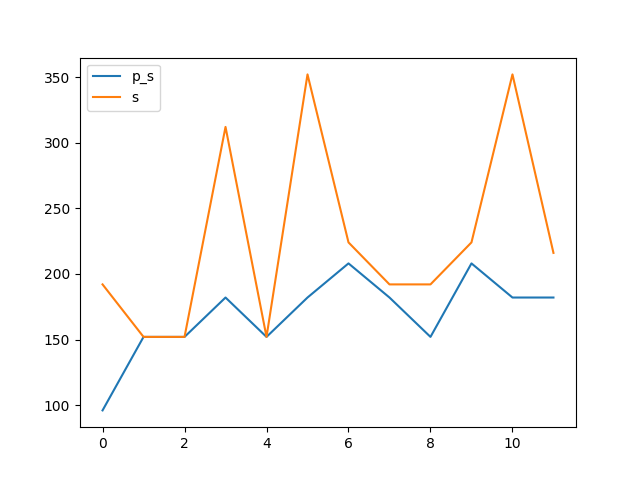
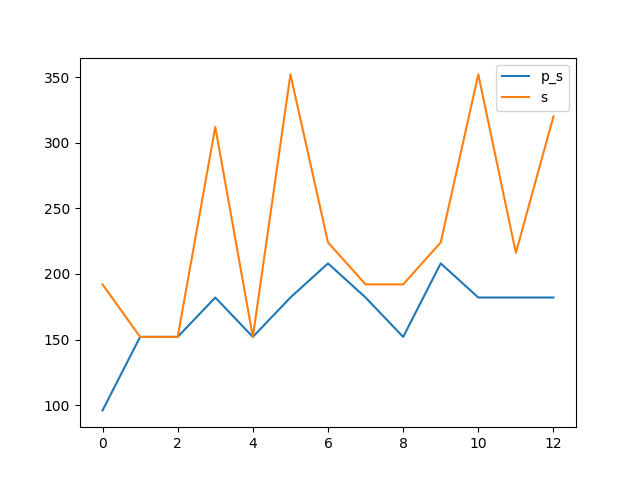
0x000C

diff --git a/benchmark.md b/benchmark.md
@@ -24,9 +24,11 @@ Synthesising 0x000A pexact:182 r=4 exact:352 r=4
 
 Synthesising 0x000B pexact:182 r=4 exact:216 r=3
 
+Synthesising 0x000C pexact:182 r=4 exact:320 r=4
+
 ![image1](benchmark_r.png?)
 
 ![image2](benchmark_s.png?)
 
- avg_p_s=169.17 avg_s=226.0 avg_pr=3.67 avg_r=3.33
+ avg_p_s=170.15 avg_s=233.23 avg_pr=3.69 avg_r=3.38
 
